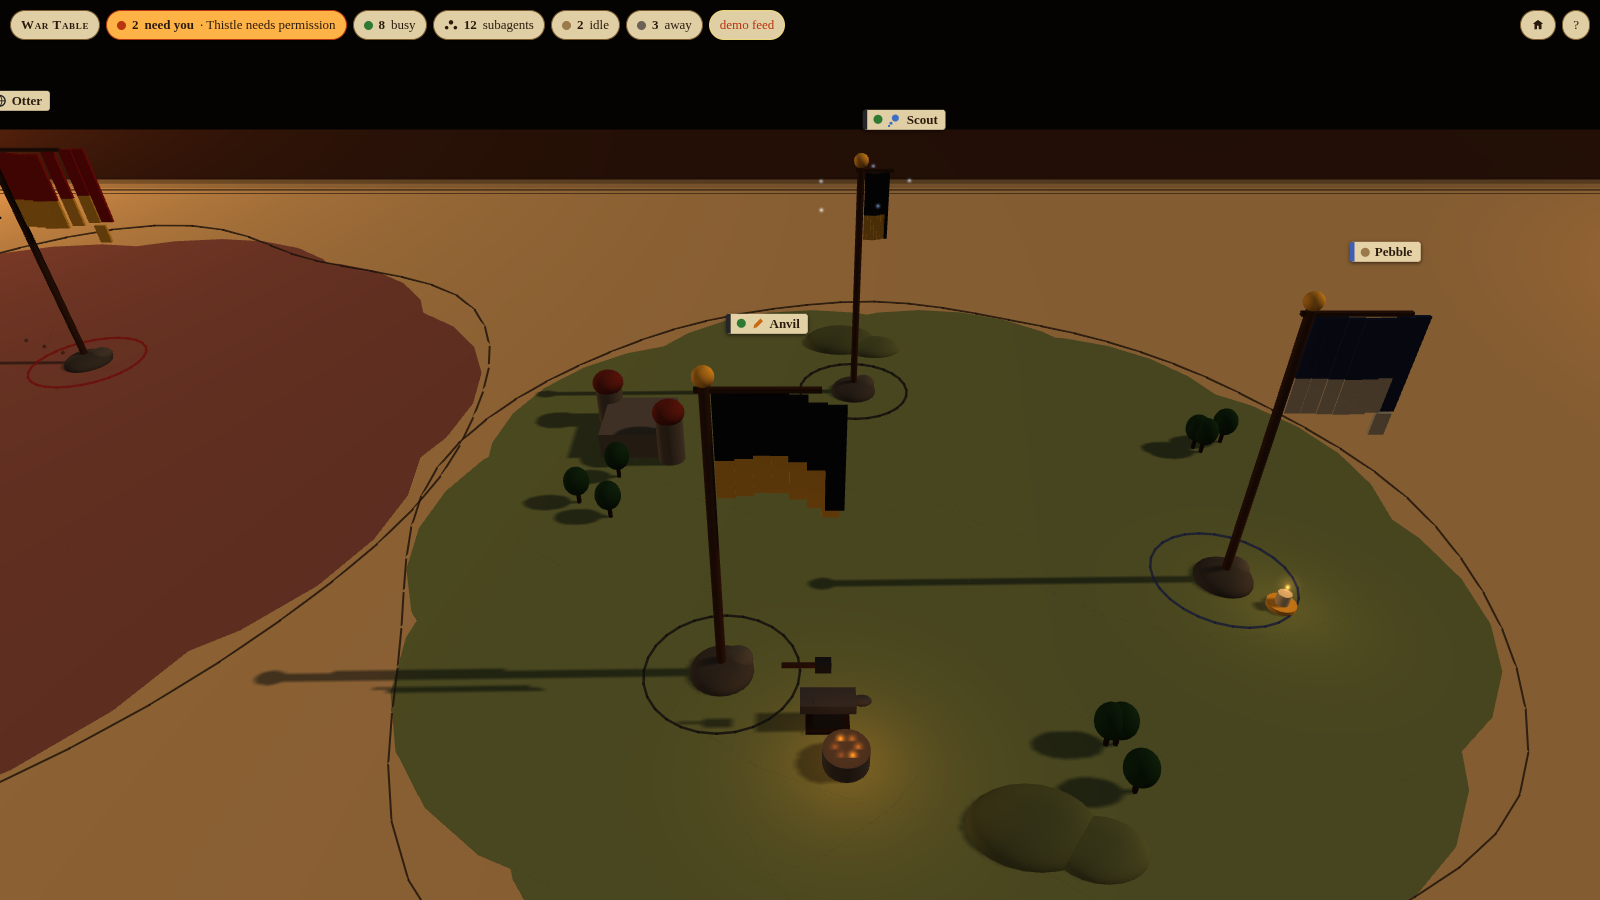
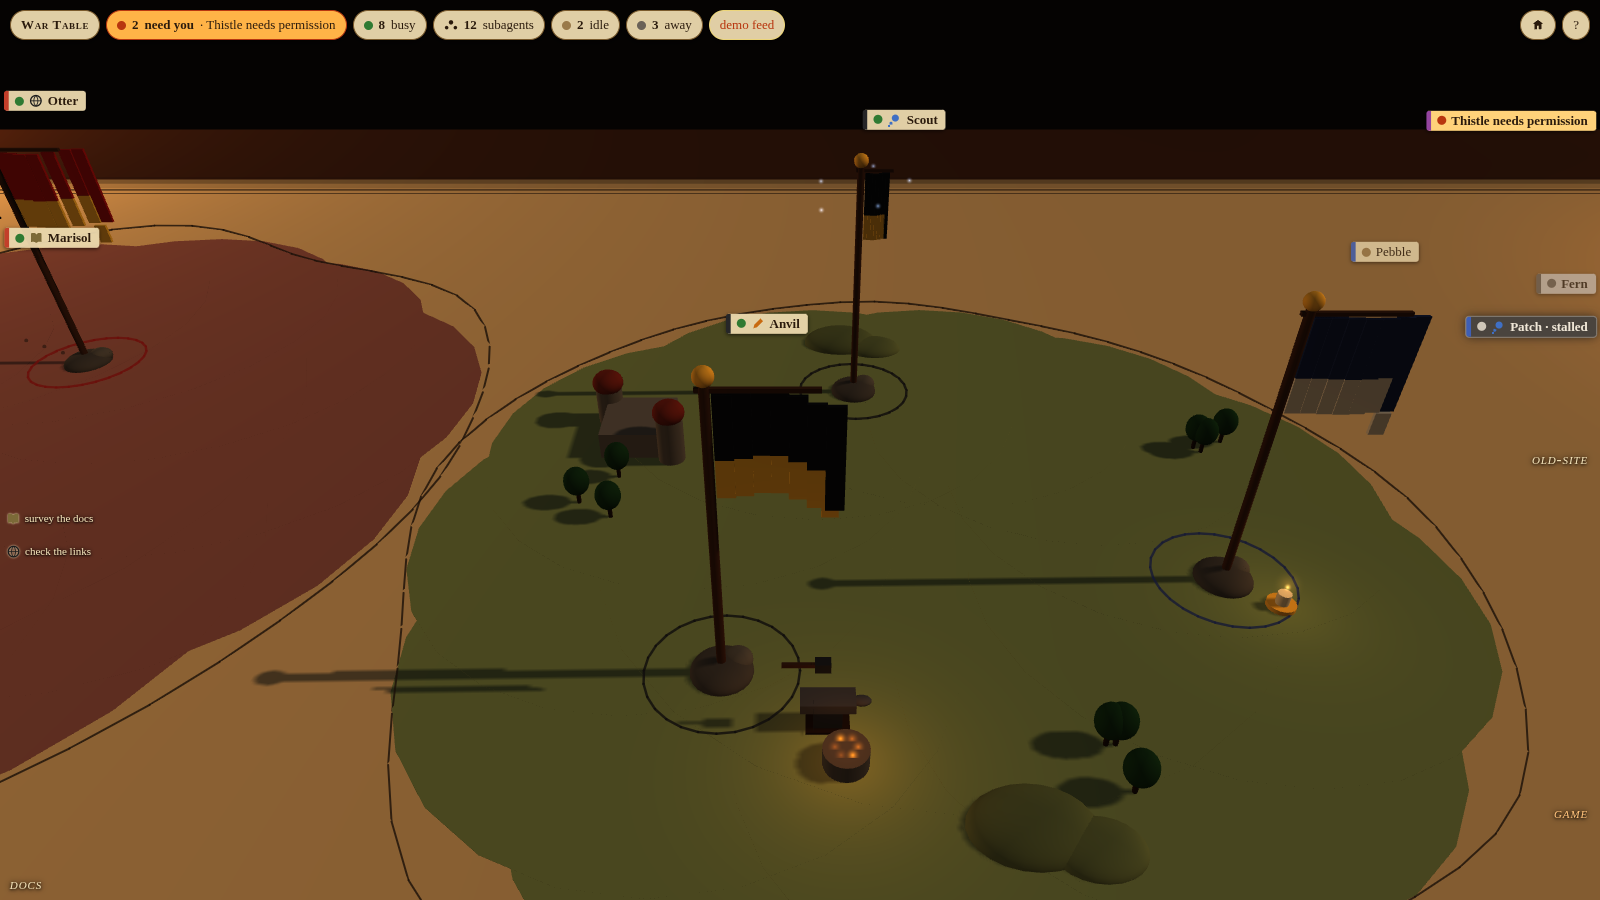
Polish: one-row phone bar, portrait map, tapped agent kept in view
Claude-Session: https://claude.ai/code/session_01LYNeukFY6qMGdbKQJnTwr8

diff --git a/web/page.js b/web/page.js
@@ -6,7 +6,7 @@
   "use strict";
   const {Table} = window.Wartable;
   const REASON = {question: "has a question", permission: "needs permission"};
-  const DEFAULT_YAW = Math.PI / 2, DEFAULT_PITCH = 0.95;
+  const DEFAULT_YAW = Math.PI / 2, DEFAULT_PITCH = 0.95, PORTRAIT_PITCH = 1.08;
   // Heraldic field colours (kField in scene/draw_util.h, in sRGB): the banner labels' edge.
   const FIELD = ["#c33f2a", "#3f5fb5", "#448a4a", "#94449f", "#dcae3a", "#262628", "#c3742a", "#3f9aa1"];
   const fieldColour = (seed) => FIELD[Math.min(7, Math.floor((seed || 0) * 7.999))];
@@ -18,18 +18,94 @@
   let sceneTime = 0, lastT = 0;
 
   /* ------------------------------------------------------------ camera */
-  function fitView() {
-    const m = table.bounds(), w = m[2] - m[0], d = m[3] - m[1];
-    const aspect = canvas.clientWidth / Math.max(1, canvas.clientHeight);
-    const span = Math.max(w / Math.min(aspect, 1.8) * 1.15, d * 1.25);
-    return {yaw: DEFAULT_YAW, pitch: DEFAULT_PITCH, dist: Math.max(18, span * 1.05),
-      tx: (m[0] + m[2]) / 2, ty: 0, tz: (m[1] + m[3]) / 2 + d * 0.06};
+  // The camera the engine builds (Strata kit sk_frame: an orbit about the
+  // target, 50 degree vertical field of view), here so a view can be fitted
+  // before it is drawn. Keep in step with strata_kit.h if the kit changes.
+  const FOV_TAN = Math.tan(25 * Math.PI / 180);
+  function projectWith(c, x, y, z, W, H) {
+    const cp = Math.cos(c.pitch);
+    const ex = c.tx + c.dist * cp * Math.cos(c.yaw), ey = c.ty + c.dist * Math.sin(c.pitch), ez = c.tz + c.dist * cp * Math.sin(c.yaw);
+    let fx = c.tx - ex, fy = c.ty - ey, fz = c.tz - ez;
+    const fl = Math.hypot(fx, fy, fz); fx /= fl; fy /= fl; fz /= fl;
+    const rl = Math.hypot(fz, fx), rx = -fz / rl, rz = fx / rl;            // forward x up
+    const ux = -rz * fy, uy = rz * fx - rx * fz, uz = rx * fy;             // right x forward
+    const px = x - ex, py = y - ey, pz = z - ez;
+    const depth = px * fx + py * fy + pz * fz;
+    if (depth <= 0.01) return null;
+    const sx = (px * rx + pz * rz) / (depth * FOV_TAN * (W / H)), sy = (px * ux + py * uy + pz * uz) / (depth * FOV_TAN);
+    return {x: (sx * 0.5 + 0.5) * W, y: (0.5 - sy * 0.5) * H};
   }
+
+  // The part of the canvas nothing covers: below the top bar and, with
+  // `panel`, above the bottom sheet (phone) or right of the card (desktop).
+  function freeRect(panel) {
+    const W = canvas.clientWidth, H = canvas.clientHeight;
+    const bar = document.querySelector(".av-bar");
+    const r = {x0: 8, y0: (bar ? bar.getBoundingClientRect().bottom : 0) + 8, x1: W - 8, y1: H - 8, W, H};
+    const p = panel && hud.panel;
+    if (p && !p.hidden) {
+      if (p.offsetWidth >= W - 40) r.y1 = Math.min(r.y1, H - p.offsetHeight - 8);
+      else r.x0 = Math.max(r.x0, p.offsetLeft + p.offsetWidth + 8);
+    }
+    return r;
+  }
+
+  // Moves the camera target so world point (x, y, z) lands on screen (sx, sy):
+  // a few Newton steps on the ground-plane Jacobian.
+  function aim(c, x, y, z, sx, sy, W, H) {
+    for (let i = 0; i < 6; i++) {
+      const q = projectWith(c, x, y, z, W, H);
+      const qx = projectWith(Object.assign({}, c, {tx: c.tx + 1}), x, y, z, W, H);
+      const qz = projectWith(Object.assign({}, c, {tz: c.tz + 1}), x, y, z, W, H);
+      if (!q || !qx || !qz) return c;
+      const a = qx.x - q.x, b = qz.x - q.x, d = qx.y - q.y, e = qz.y - q.y, det = a * e - b * d;
+      if (Math.abs(det) < 1e-6) return c;
+      const dx = sx - q.x, dy = sy - q.y;
+      c.tx += (e * dx - b * dy) / det;
+      c.tz += (a * dy - d * dx) / det;
+    }
+    return c;
+  }
+
+  const isTall = () => canvas.clientWidth / Math.max(1, canvas.clientHeight) < 0.8;
+
+  // The whole parchment, banners standing on its far edge included, as large
+  // as it fits below the top bar. Portrait screens look down more steeply.
+  function fitView() {
+    const m = table.bounds(), fr = freeRect(false), W = fr.W, H = fr.H;
+    const pts = [];
+    for (const x of [m[0], m[2]]) for (const z of [m[1], m[3]]) pts.push([x, 0, z]);
+    for (const x of [m[0], m[2]]) pts.push([x, 3.2, m[1] + 2]);
+    const c = {yaw: DEFAULT_YAW, pitch: isTall() ? PORTRAIT_PITCH : DEFAULT_PITCH, dist: 40, ty: 0,
+      tx: (m[0] + m[2]) / 2, tz: (m[1] + m[3]) / 2};
+    const mid = [c.tx, 0, c.tz];
+    for (let i = 0; i < 40; i++) {
+      const qs = pts.map((p) => projectWith(c, p[0], p[1], p[2], W, H));
+      if (qs.some((q) => !q)) { c.dist *= 1.3; continue; }
+      const bx0 = Math.min(...qs.map((q) => q.x)), bx1 = Math.max(...qs.map((q) => q.x));
+      const by0 = Math.min(...qs.map((q) => q.y)), by1 = Math.max(...qs.map((q) => q.y));
+      const k = Math.max((bx1 - bx0) / (fr.x1 - fr.x0), (by1 - by0) / (fr.y1 - fr.y0));
+      c.dist = Math.min(150, Math.max(12, c.dist * Math.pow(k, 0.7)));
+      const q = projectWith(c, mid[0], mid[1], mid[2], W, H);
+      if (q) aim(c, mid[0], mid[1], mid[2], q.x + (fr.x0 + fr.x1) / 2 - (bx0 + bx1) / 2, q.y + (fr.y0 + fr.y1) / 2 - (by0 + by1) / 2, W, H);
+    }
+    return c;
+  }
+  let lastFit = null;
   function fit(instant) {
     if (!kit || !table.doc) return;
-    const view = fitView();
-    kit.limits.maxDist = Math.max(kit.limits.maxDist || 0, view.dist * 1.6);
-    flyTo(view, instant);
+    lastFit = fitView();
+    kit.limits.maxDist = Math.max(kit.limits.maxDist || 0, lastFit.dist * 1.6);
+    flyTo(lastFit, instant);
+  }
+  // A turned phone re-lays the map (deeper than wide when upright) and
+  // refits, unless the view was moved since the last fit.
+  function onResize() {
+    const relaid = table.setTall(isTall());
+    const c = kit && kit.cam;
+    if (!c || !lastFit) return;
+    const untouched = ["yaw", "pitch", "dist", "tx", "tz"].every((k) => Math.abs(c[k] - lastFit[k]) < 1e-3);
+    if (relaid || (untouched && !camAnim)) fit(!relaid);
   }
   function flyTo(to, instant) {
     if (instant || kit.driven) { Object.assign(kit.cam, to); camAnim = null; return; }
@@ -41,18 +117,32 @@
     for (const key of Object.keys(camAnim.to)) kit.cam[key] = AgentvizFeed.lerp(camAnim.from[key], camAnim.to[key], e);
     if (k >= 1) camAnim = null;
   }
+  // Brings a banner or scout into the clear band (below the top bar, above
+  // the bottom sheet or beside the card). With `zoom` it also moves in close;
+  // otherwise the camera only pans, and only when it is covered or off screen.
   // A waiting banner is framed with its beacon hill (drawn to its west).
-  function focusOn(o) {
+  function reveal(o, zoom) {
     const beacon = o.session && !o.follower && o.session.state === "waiting" ? -0.6 : 0;
-    flyTo({tx: o.x + beacon, ty: 0.6, tz: o.z, dist: Math.min(kit.cam.dist, 16)});
+    const x = o.x + beacon, y = o.follower ? 0.6 : o.top * 0.5, z = o.z;
+    const fr = freeRect(true), base = camAnim ? camAnim.to : kit.cam;
+    const c = Object.assign({}, base, zoom ? {dist: Math.min(base.dist, 16), ty: 0.6} : {});
+    const q = projectWith(c, x, y, z, fr.W, fr.H), pad = 36;
+    // Its foot (horse, cairn, beacon hill) hangs below the anchor, so the bottom edge keeps a wider margin.
+    if (!zoom && q && q.x > fr.x0 + pad && q.x < fr.x1 - pad && q.y > fr.y0 + pad * 2 && q.y < fr.y1 - pad * 2) return;
+    flyTo(aim(c, x, y, z, (fr.x0 + fr.x1) / 2, (fr.y0 + fr.y1) / 2 + 16, fr.W, fr.H));
   }
 
   /* ------------------------------------------------------------ labels */
+  // A banner's label: who, and at a glance what state. A waiting one says
+  // why and outranks everything; a stalled one says so; idle ones fade back.
   function bannerLabel(b, items) {
     const s = b.session, waiting = s.state === "waiting", offline = s.state === "offline";
-    const text = waiting ? (s.name || s.id) + " " + (REASON[s.waitingReason] || "needs you") : s.name || s.id.slice(0, 8);
-    const el = labels.set("b:" + b.id, {cls: "banner" + (waiting ? " waiting" : "") + (offline ? " offline" : ""),
-      state: s.stalled ? "stalled" : s.state, action: s.state === "busy" ? s.action : null, text});
+    const idle = s.state === "idle" || s.state === "dim", stalled = !!s.stalled && !waiting;
+    const name = s.name || s.id.slice(0, 8);
+    const text = waiting ? name + " " + (REASON[s.waitingReason] || "needs you") : name + (stalled ? " \u00b7 stalled" : "");
+    const el = labels.set("b:" + b.id, {cls: "banner" + (waiting ? " waiting" : "") + (offline ? " offline" : "") +
+      (idle ? " idle" : "") + (stalled ? " stalled" : ""),
+      state: stalled ? "stalled" : s.state, action: s.state === "busy" ? s.action : null, text});
     el.style.setProperty("--field", fieldColour(s.seed));
     items.push({el, q: kit.project(b.x + 0.5, b.top + 0.45, b.z),
       rank: b.id === selectedId || waiting ? 0 : offline ? 3 : 1});
@@ -63,8 +153,10 @@
     const f = sc.follower, resting = f.state !== "active";
     const mine = sc.id === selectedId || sc.owner.id === selectedId;
     const el = labels.set("s:" + sc.id, {cls: "scout" + (resting ? " resting" : "") + (f.stalled ? " stalled" : ""),
-      state: f.stalled ? "stalled" : null, action: resting ? "none" : f.action, text: f.label || f.id});
-    items.push({el, q: kit.project(sc.x, 1.45, sc.z), rank: mine ? 1 : 4});
+      state: f.stalled ? "stalled" : null, action: resting ? "none" : f.action,
+      text: (f.label || f.id) + (f.stalled ? " \u00b7 stalled" : "")});
+    // A stalled scout outranks its quiet neighbours, so the warning is not the label that hides.
+    items.push({el, q: kit.project(sc.x, 1.45, sc.z), rank: mine ? 1 : f.stalled ? 2 : 4});
     if (f.branch && f.branch !== sc.owner.session.branch && f.branch !== f.label) {
       const plate = labels.set("sb:" + sc.id, {cls: "branch", text: f.branch});
       items.push({el: plate, q: kit.project(sc.x, 0.15, sc.z + 0.5), rank: mine ? 2 : 5});
@@ -80,7 +172,22 @@
     for (const b of table.banners) bannerLabel(b, items);
     for (const sc of table.scouts) scoutLabel(sc, items);
     labels.end();
-    StrataKit.placeLabels(items);
+    StrataKit.placeLabels(keepClear(items));
+  }
+  // Labels stay on screen and out from under the top bar: one that would sit
+  // under it hides, unless it must show (waiting, selected), then it drops
+  // just below the bar.
+  function keepClear(items) {
+    const fr = freeRect(false), top = fr.y0 - 4;
+    for (const it of items) {
+      if (!it.q || it.el._skW == null) continue;
+      const half = it.el._skW / 2 + 4, h = it.el._skH || 18;
+      it.q = {x: Math.min(Math.max(it.q.x, half), Math.max(half, fr.W - half)), y: it.q.y, w: it.q.w};
+      if (it.q.y - h < top) {
+        if (it.rank <= 0) { it.q = {x: it.q.x, y: top + h, w: it.q.w}; it.tries = 1; } else it.q = null;
+      }
+    }
+    return items;
   }
 
   /* ------------------------------------------------------------ picking + selection */
@@ -104,7 +211,8 @@
     selectedId = idOf(target);
     const o = byId(selectedId);
     if (kit) kit.selected = o;
-    if (o && (how === "list" || how === "waiting")) focusOn(o);
+    // The HUD has drawn the card or sheet already, so its size is known.
+    if (o && kit) reveal(o, how === "list" || how === "waiting");
   }
 
   const hud = AgentvizHud.create({
@@ -115,6 +223,7 @@
   });
 
   function accept(doc) {
+    if (!table.doc) table.tall = isTall();
     table.update(doc);
     if (!table.banners.length) table.step(0);  // first snapshot: banners exist before the first frame
     hud.update(doc);
@@ -176,11 +285,12 @@
     const now = () => (kit.driven ? sceneTime : Date.now() / 1000);
     feed = AgentvizFeed.create({onUpdate: accept, onStatus: hud.setStatus, now});
     window.__table = table;
-    window.__page = {kit, table, hud, fit, flyTo, byId,
+    window.__page = {kit, table, hud, fit, flyTo, byId, projectWith,
       select: (id, focus) => hud.select(targetOf(byId(id)), focus ? "list" : "api"),
       get doc() { return feed.doc; }, get polls() { return feed.polls; },
       feedClient: feed, stopPolling: () => feed.stop(), pollOnce: () => feed.pollOnce(), feed: (d) => feed.push(d)};
     kit.setSun(Date.UTC(2026, 5, 21, 15, 0, 0) / 1000, 40, -105);
+    addEventListener("resize", () => requestAnimationFrame(onResize));
     feed.start();
     kit.start();
     if (kit.driven) kit.drive(0);

diff --git a/web/index.html b/web/index.html
@@ -26,6 +26,11 @@
   .av-label.banner { font-size: 13px; font-weight: bold; border-radius: 3px; padding: 1px 8px 1px 6px;
     border: 0; border-left: 5px solid var(--field, #833); box-shadow: 0 1px 4px rgba(0, 0, 0, 0.6); }
   .av-label.banner.offline { opacity: 0.55; filter: grayscale(1); }
+  /* Idle banners step back so the busy and waiting ones read first. */
+  .av-label.banner.idle { opacity: 0.78; font-weight: normal; }
+  /* Stalled reads as soot: a dark plate, pale text, a smoky edge, lead or scout alike. */
+  .av-label.banner.stalled { background: #4a443e; color: #efe6d6; box-shadow: 0 0 0 1px #8a8178, 0 0 10px rgba(30, 26, 22, 0.9); }
+  .av-label.stalled .av-s-stalled { background: #cfc6b8; }
   .av-label.banner.waiting { background: #ffd27a; animation: wt-glow 1s ease-in-out infinite alternate; }
   .av-label.region { background: none; border: 0; font-style: italic; font-size: 15px; color: #f3e2b8; letter-spacing: 0.06em;
     text-shadow: 0 1px 3px #000, 0 0 6px #000; font-variant: small-caps; }
@@ -33,11 +38,25 @@
   .av-label.scout { background: none; border: 0; padding: 0 2px; font-size: 11px; color: #f3e2b8;
     text-shadow: 0 1px 2px #000, 0 0 4px #000; }
   .av-label.scout .av-ic { filter: drop-shadow(0 0 1px #f3e2b8); }
-  .av-label.scout.stalled { background: rgba(60, 55, 50, 0.85); border-radius: 3px; padding: 1px 6px 1px 4px; }
+  .av-label.scout.stalled { background: rgba(60, 55, 50, 0.92); border: 1px solid #8a8178; border-radius: 3px;
+    padding: 1px 6px 1px 4px; font-weight: bold; }
   .av-label.branch { font: 600 10px/1 ui-monospace, Menlo, Consolas, monospace; background: #1a120a; color: #e8c070;
     border: 1px solid #a07a30; border-radius: 2px; padding: 2px 5px; }
   @media (prefers-reduced-motion: reduce) { .av-label.banner.waiting { animation: none; } }
-  @media (max-width: 640px) { .av-label.region { font-size: 13px; } }
+  /* Phones: the top bar stays one line. The title is in the tab already, the
+     idle and away counts give way to "need you", busy and subagents, and the
+     demo badge shortens. */
+  @media (max-width: 640px) {
+    .av-label.region { font-size: 13px; }
+    .av-bar { flex-wrap: nowrap; gap: 5px; align-items: flex-start; }
+    .av-bar .av-chip { padding: 4px 8px; gap: 4px; white-space: nowrap; flex: none; }
+    .av-bar .av-title, .av-bar > span.av-chip:has(.av-s-idle), .av-bar > span.av-chip:has(.av-s-offline) { display: none; }
+    .av-bar .av-badge { font-size: 0; gap: 0; }
+    .av-bar .av-badge::after { content: "demo"; font-size: 11px; }
+    .av-bar button.av-chip { min-width: 40px; padding: 4px; justify-content: center; }
+    .av-label.banner { font-size: 12px; }
+  }
+  @media (max-width: 360px) { .av-bar .av-badge { display: none; } }
 
   .av-legend h3 { margin: 8px 0 4px; font-variant: small-caps; font-size: 14px; }
   .av-legend h3:first-child { margin-top: 0; }
@@ -56,7 +75,7 @@
     <li><span class="sw" style="background:var(--ember)"></span>Beacon fire on a hill: <b>waiting on you</b>; a "?" above it for a question, a padlock for a permission prompt</li>
     <li><span class="sw" style="background:var(--av-idle)"></span>Banner still, low candle: idle</li>
     <li><span class="sw" style="background:var(--av-off)"></span>Lowered grey banner: offline</li>
-    <li><span class="sw" style="background:var(--av-stall)"></span>Grey smoke: stalled (a banner busy, or a scout quiet, with nothing new for 5 min)</li>
+    <li><span class="sw" style="background:var(--av-stall)"></span>Grey smoke and a sooty "stalled" label: stalled (a banner busy, or a scout quiet, with nothing new for 5 min)</li>
     <li><span class="sw" style="background:#f6d15e"></span>A gold flash at the finial: a new tool call</li>
   </ul>
   <h3>What a banner is doing</h3>

diff --git a/web/wartable-model.js b/web/wartable-model.js
@@ -71,10 +71,12 @@
   }
 
   // Regions on a grid, each cell sized to the largest region, the last row
-  // centred, each region nudged inside its cell by its seed.
-  function placeOnGrid(regions) {
+  // centred, each region nudged inside its cell by its seed. The grid is
+  // wider than deep, or deeper than wide on a portrait screen (`tall`), so
+  // the map fills a phone held upright instead of a thin strip of it.
+  function placeOnGrid(regions, tall) {
     const n = Math.max(regions.length, 1);
-    const cols = Math.max(1, Math.ceil(Math.sqrt(n * 1.6))), rows = Math.ceil(n / cols);
+    const cols = Math.max(1, Math.ceil(Math.sqrt(n * (tall ? 0.45 : 1.6)))), rows = Math.ceil(n / cols);
     const cell = Math.max(4, ...regions.map((r) => r.R)) * 2 + 1.4;
     const w = cols * cell, d = rows * cell;
     regions.forEach((r, i) => {
@@ -87,13 +89,13 @@
     return [-w / 2 - MAP_MARGIN, -d / 2 - MAP_MARGIN - 0.6, w / 2 + MAP_MARGIN, d / 2 + MAP_MARGIN + 1.2];
   }
 
-  // Target positions for one document. Pure: the same document always lays
-  // out the same way.
-  function layout(doc) {
+  // Target positions for one document. Pure: the same document (and the
+  // same `tall`) always lays out the same way.
+  function layout(doc, tall) {
     const byPlace = groupByPlace(doc);
     const meta = new Map((doc.places || []).map((p) => [p.id, p]));
     const regions = [...byPlace.keys()].sort().map((id) => layRegion(id, byPlace.get(id), meta.get(id) || {}));
-    const map = placeOnGrid(regions);
+    const map = placeOnGrid(regions, !!tall);
     const banners = new Map(), dests = new Map();
     for (const r of regions) {
       for (const b of r.local) {
@@ -133,11 +135,20 @@
       this.banners = [];            // this frame's visible banners (frame, labels, picking)
       this.scouts = [];             // this frame's visible scouts
       this.seen = false;            // a first snapshot appears at once; later arrivals grow in
+      this.tall = false;            // portrait screen: lay the regions out deeper than wide
+    }
+
+    // A turned phone re-lays the map; banners and scouts ease to their new places.
+    setTall(tall) {
+      if (this.tall === !!tall) return false;
+      this.tall = !!tall;
+      if (this.doc) this.update(this.doc);
+      return true;
     }
 
     update(doc) {
       this.doc = doc;
-      const target = layout(doc);
+      const target = layout(doc, this.tall);
       this.mapTarget = target.map;
       if (!this.map) this.map = target.map.slice();
       this.regions = target.regions;

diff --git a/README.md b/README.md
@@ -90,7 +90,8 @@ sitting by it.*
 ![A stalled scout under grey smoke](docs/media/closeup-stalled-scout.png)
 
 *A stalled scout (`cache warm-up`): quiet for over five minutes without
-finishing, so grey smoke rises over its camp and its label turns grey.*
+finishing, so grey smoke rises over its camp and its label turns to a sooty
+plate that says "stalled". A stalled banner's label does the same.*
 
 ![Actions side by side](docs/media/closeup-actions.png)
 
@@ -125,10 +126,13 @@ many tool calls it has made. On the map such a scout carries a small plate
 with the branch under it, unless its lane label already names the branch,
 as this one's does.*
 
-<img src="docs/media/phone.png" alt="Phone portrait with the bottom sheet open on Thistle" width="300">
+<img src="docs/media/phone.png" alt="Phone portrait with the bottom sheet open on Wren, the map slid up so Wren stays in view" width="300">
 
-*On a phone (390 x 844 at DPR 3) you orbit with one finger and pinch to zoom.
-Tapping a banner opens a bottom sheet, shown here on Thistle.*
+*On a phone (390 x 844 at DPR 3) the regions are laid out deeper than wide,
+so the map fills the screen held upright, and the top bar keeps to one line
+(need you, busy, subagents). You orbit with one finger and pinch to zoom.
+Tapping a banner opens a bottom sheet, shown here on Wren; the map slides up
+so what you tapped stays in sight above the sheet.*
 
 ## Legend
 
@@ -142,7 +146,7 @@ Tapping a banner opens a bottom sheet, shown here on Thistle.*
 | A padlock / a "?" over the beacon | waiting on a permission prompt / on a question | closeup-waiting, closeup-question |
 | Banner still, low candle stub | `idle` (and `dim`, greyer) | closeup-idle-offline |
 | Banner lowered to a stump, greyed | `offline` | closeup-idle-offline |
-| Grey smoke rising from a banner or a scout | `stalled`: a session busy with nothing written for 5 min, or a subagent quiet that long without finishing | closeup-stalled-scout |
+| Grey smoke rising from a banner or a scout, a sooty "stalled" label | `stalled`: a session busy with nothing written for 5 min, or a subagent quiet that long without finishing | closeup-stalled-scout |
 | Gold burst from the finial, gold ring at the foot (a scout's pennant flashes gold) | a new tool call | motion.gif |
 | Smith's anvil, falling hammer, sparks | action `edit` | closeup-actions |
 | Catapult rolling, winding and throwing a stone | action `run` | closeup-lead |
